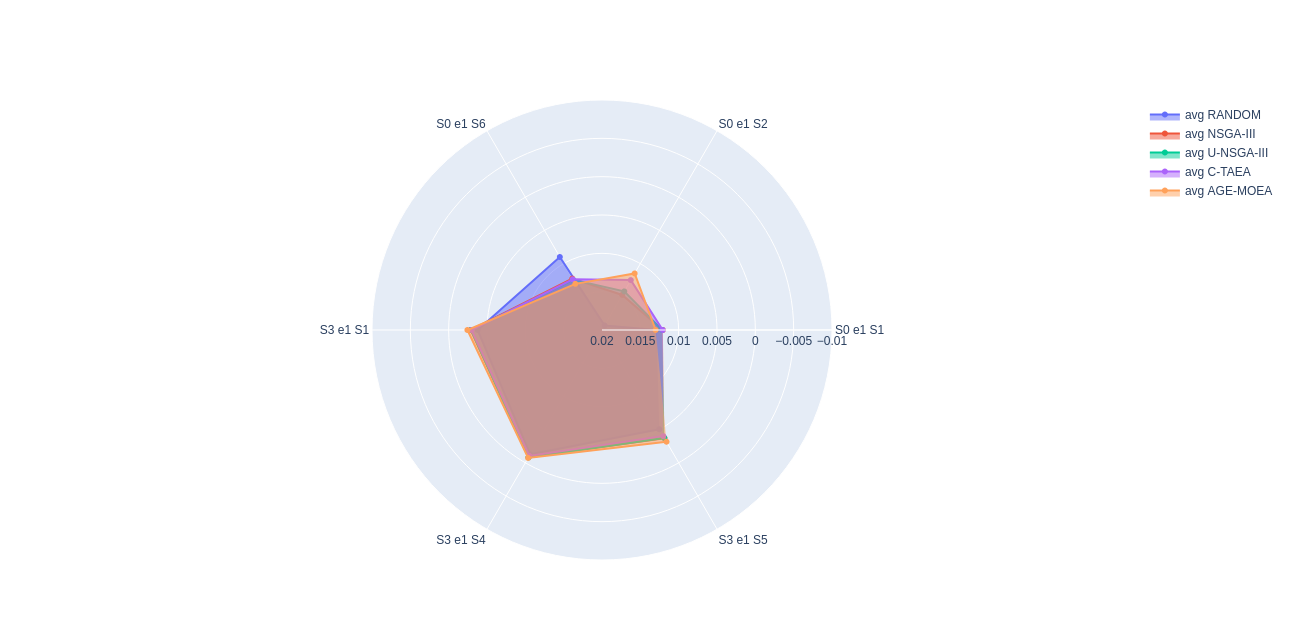
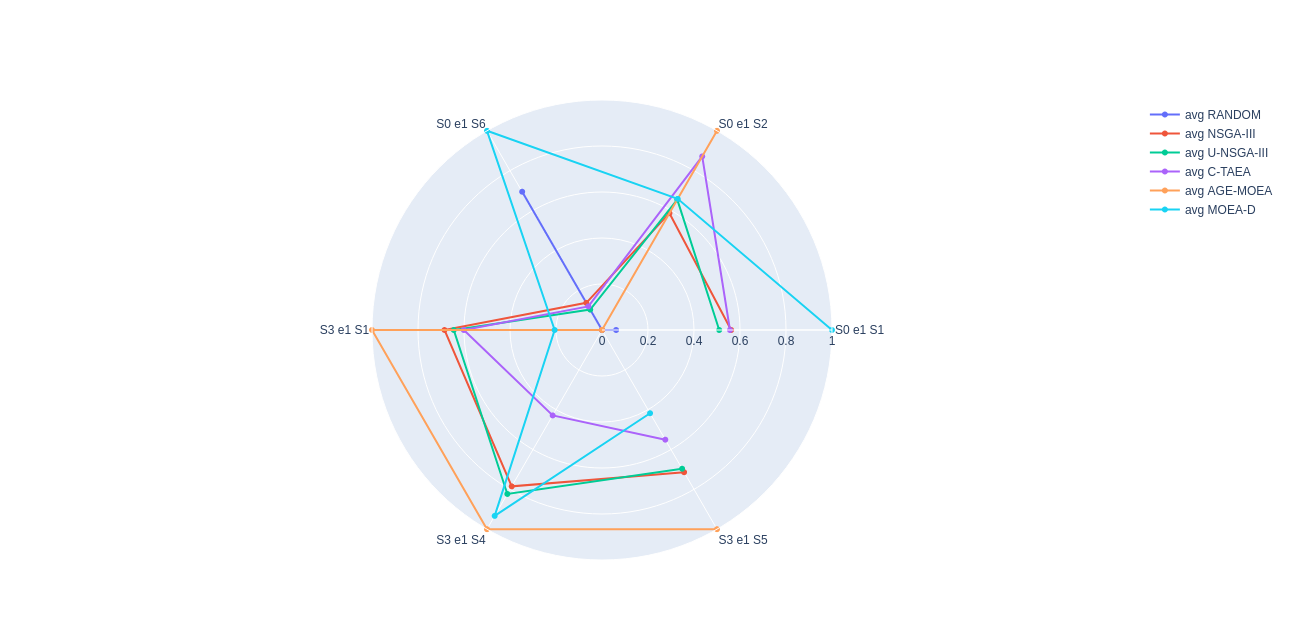
Fixed to SmallExperiment3 summary radar plots

diff --git a/RescueRobotPy/SmallExperiment3/RadarPlotSummary.py b/RescueRobotPy/SmallExperiment3/RadarPlotSummary.py
@@ -1,60 +1,106 @@
 
+from asyncio import SafeChildWatcher
+from audioop import avg
 from copy import copy
 import plotly.graph_objects as go
+from sklearn.preprocessing import MinMaxScaler
+from itertools import chain
 
 categories = ['S0 e1 S1','S0 e1 S2', 'S0 e1 S6', 'S3 e1 S1', 'S3 e1 S4', 'S3 e1 S5']
 
 fig1 = go.Figure()
 
+minRANDOM = [-0.007598670378823384, 0.005475649037884112, -0.003046069529013114, -9.99999999999994e-05, -0.0, -9.999999999998899e-05]
+minNSGA3 = [-0.007583341070633805, 0.008018893859577103, -0.002844446101142129, -9.99999999999994e-05, -0.0, -9.999999999998899e-05]
+minUNSGA3 = [-0.007583450823347492, 0.008536780363509577, -0.0028457821000263993, -9.99999999999994e-05, -0.0, -9.999999999998899e-05]
+minCTAEA = [-0.007583365616792707, 0.008974595093018678, -0.002834976383143386, -9.99999999999994e-05, -0.0, -9.999999999998899e-05]
+minAGEMOEA = [-0.007583333726698659, 0.009112849124759625, -0.002831590069578596, -9.99999999999994e-05, -0.0, -9.999999999998899e-05]
+minMOEAD = [-0.007583333352022664, 0.009112870138011098, -0.0028311057217337184, -9.99999999999994e-05, -0.0, -9.999999999998899e-05]
+
+minValues = [minRANDOM, minNSGA3, minUNSGA3, minCTAEA, minAGEMOEA, minMOEAD]
+
+avgRANDOM = [-0.012901185107996272, -0.019315010413081438, -0.00900041262478597, -0.003779911111111111, -0.0012781444444444443, -0.005058055555555566]
+avgNSGA3 = [-0.012067100446369862, -0.014719300232457709, -0.012253217085680003, -0.0028643055555555557, -0.000846461111111111, -0.003710766666666673]
+avgUNSGA3 = [-0.012153637068077055, -0.014185063778808883, -0.012450937441938651, -0.002918277777777777, -0.0008254666666666665, -0.003743744444444451]
+avgCTAEA = [-0.012075628647037762, -0.012486370859491006, -0.012357349319368289, -0.002976672203765227, -0.0010423089700996677, -0.0040189811738648995]
+avgAGEMOEA = [-0.013003569365913042, -0.011479399577362607, -0.013048054353292917, -0.0024428444444444452, -0.0007282111111111109, -0.0031710555555555585]
+avgMOEAD = [-0.011335967106192134, -0.014156274558110884, -0.007217672360829588, -0.0035046707589285703, -0.000764933035714286, -0.004269603794642866]
+
+avgValues = [avgRANDOM, avgNSGA3, avgUNSGA3, avgCTAEA, avgAGEMOEA, avgMOEAD]
+
+scaler = MinMaxScaler()
+scaler.fit(minValues)
+minValues = scaler.transform(minValues)
+
+scaler = MinMaxScaler()
+scaler.fit(avgValues)
+avgValues = scaler.transform(avgValues)
+
+minRANDOM = minValues[0]
+minNSGA3 = minValues[1]
+minUNSGA3 = minValues[2]
+minCTAEA = minValues[3]
+minAGEMOEA = minValues[4]
+minMOEAD = minValues[5]
+
+avgRANDOM = avgValues[0]
+avgNSGA3 = avgValues[1]
+avgUNSGA3 = avgValues[2]
+avgCTAEA = avgValues[3]
+avgAGEMOEA = avgValues[4]
+avgMOEAD = avgValues[5]
+
 fig1.add_trace(go.Scatterpolar(
-    r = [0.007598670378823384, -0.005475649037884112, 0.003046069529013114, 9.99999999999994e-05, 0.0, 9.999999999998899e-05],
+    r =
+    minRANDOM,
     theta = categories,
-    fill = 'toself',
+    fill = 'none',
     name = 'min RANDOM'
 ))
 
 fig1.add_trace(go.Scatterpolar(
-    r = [0.007583341070633805, -0.008018893859577103, 0.002844446101142129, 9.99999999999994e-05, 0.0, 9.999999999998899e-05],
+    r = minNSGA3,
     theta = categories,
-    fill = 'toself',
+    fill = 'none',
     name = 'min NSGA-III'
 ))
 
 fig1.add_trace(go.Scatterpolar(
-    r = [0.007583450823347492, -0.008536780363509577, 0.0028457821000263993, 9.99999999999994e-05, 0.0, 9.999999999998899e-05],
+    r = minUNSGA3,
     theta = categories,
-    fill = 'toself',
+    fill = 'none',
     name = 'min U-NSGA-III'
 ))
 
 fig1.add_trace(go.Scatterpolar(
-    r = [0.007583365616792707, -0.008974595093018678, 0.002834976383143386, 9.99999999999994e-05, 0.0, 9.999999999998899e-05],
+    r = minCTAEA,
     theta = categories,
-    fill = 'toself',
+    fill = 'none',
     name = 'min C-TAEA'
 ))
 
 fig1.add_trace(go.Scatterpolar(
-    r = [0.007583333726698659, -0.009112849124759625, 0.002831590069578596, 9.99999999999994e-05, 0.0, 9.999999999998899e-05],
+    r = minAGEMOEA,
     theta = categories,
-    fill = 'toself',
+    fill = 'none',
     name = 'min AGE-MOEA'
 ))
 
 fig1.add_trace(go.Scatterpolar(
-    r = [0.007583333352022664, -0.009112870138011098, 0.0028311057217337184, 9.99999999999994e-05, 0.0, 9.999999999998899e-05],
+    r = minMOEAD,
     theta = categories,
-    fill = 'toself',
+    fill = 'none',
     name = 'min MOEA-D'
 ))
 
 
 fig1.update_layout(
-    polar = dict (radialaxis = dict(
-        visible = True,
-        range = [0.02, -0.01]
-    )),
-    showlegend = True
+    polar = dict (
+        radialaxis = dict(
+            visible = True,
+            range = [0.0, 1.0]
+            )),
+    showlegend = True,
 )
 
 fig1.show()
@@ -62,51 +108,51 @@ fig1.show()
 fig2 = go.Figure()
 
 fig2.add_trace(go.Scatterpolar(
-    r = [0.012901185107996272, 0.019315010413081438, 0.00900041262478597, 0.003779911111111111, 0.0012781444444444443, 0.005058055555555566],
+    r = avgRANDOM,
     theta = categories,
-    fill = 'toself',
+    fill = 'none',
     name = 'avg RANDOM'
 ))
 
 fig2.add_trace(go.Scatterpolar(
-    r = [0.012067100446369862, 0.014719300232457709, 0.012253217085680003, 0.0028643055555555557, 0.000846461111111111, 0.003710766666666673],
+    r = avgNSGA3,
     theta = categories,
-    fill = 'toself',
+    fill = 'none',
     name = 'avg NSGA-III'
 ))
 
 fig2.add_trace(go.Scatterpolar(
-    r = [0.012153637068077055, 0.014185063778808883, 0.012450937441938651, 0.002918277777777777, 0.0008254666666666665, 0.003743744444444451],
+    r = avgUNSGA3,
     theta = categories,
-    fill = 'toself',
+    fill = 'none',
     name = 'avg U-NSGA-III'
 ))
 
 fig2.add_trace(go.Scatterpolar(
-    r = [0.012075628647037762, 0.012486370859491006, 0.012357349319368289, 0.002976672203765227, 0.0010423089700996677, 0.0040189811738648995],
+    r = avgCTAEA,
     theta = categories,
-    fill = 'toself',
+    fill = 'none',
     name = 'avg C-TAEA'
 ))
 
 fig2.add_trace(go.Scatterpolar(
-    r = [0.013003569365913042, 0.011479399577362607, 0.013048054353292917, 0.0024428444444444452, 0.0007282111111111109, 0.0031710555555555585],
+    r = avgAGEMOEA,
     theta = categories,
-    fill = 'toself',
+    fill = 'none',
     name = 'avg AGE-MOEA'
 ))
 
 fig2.add_trace(go.Scatterpolar(
-    r = [0.011335967106192134, 0.014156274558110884, 0.007217672360829588, 0.0035046707589285703, 0.000764933035714286, 0.004269603794642866],
+    r = avgMOEAD,
     theta = categories,
-    fill = 'toself',
+    fill = 'none',
     name = 'avg MOEA-D'
 ))
 
 fig2.update_layout(
     polar = dict (radialaxis = dict(
         visible = True,
-        range = [0.02, -0.01]
+        range = [0.0, 1.0]
     )),
     showlegend = True
 )
